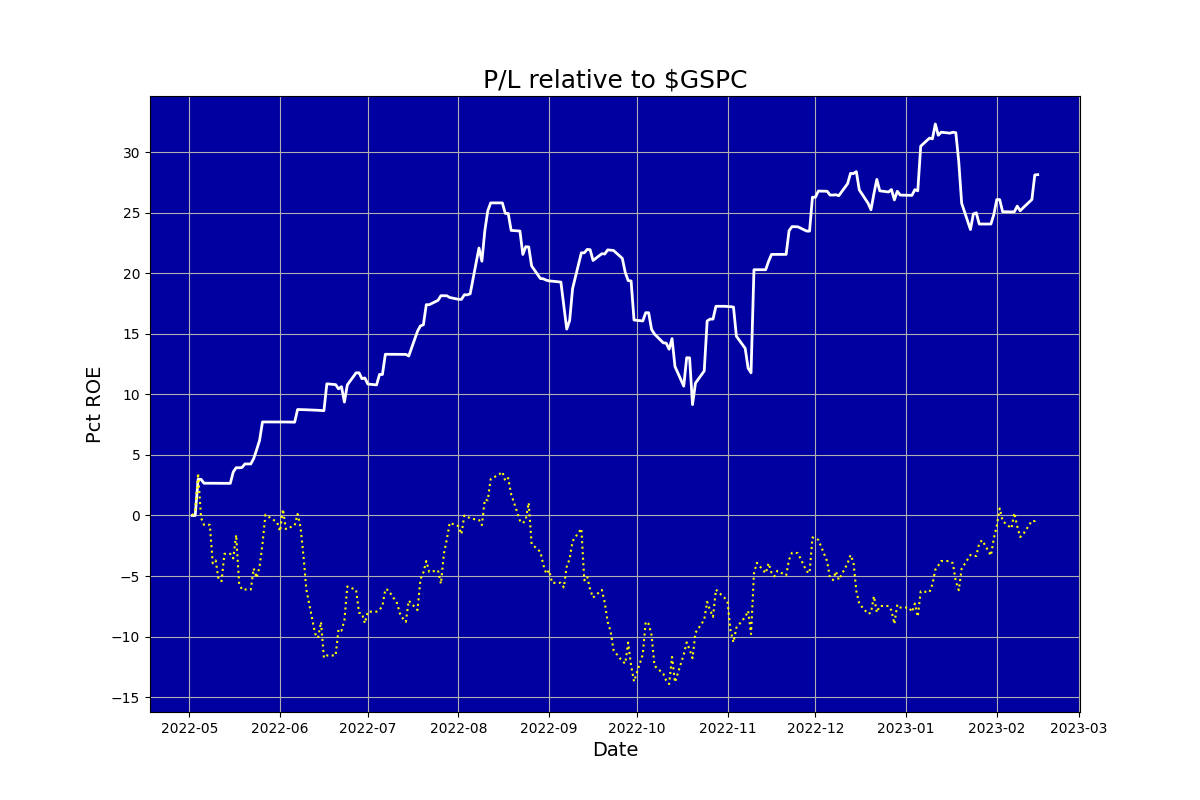
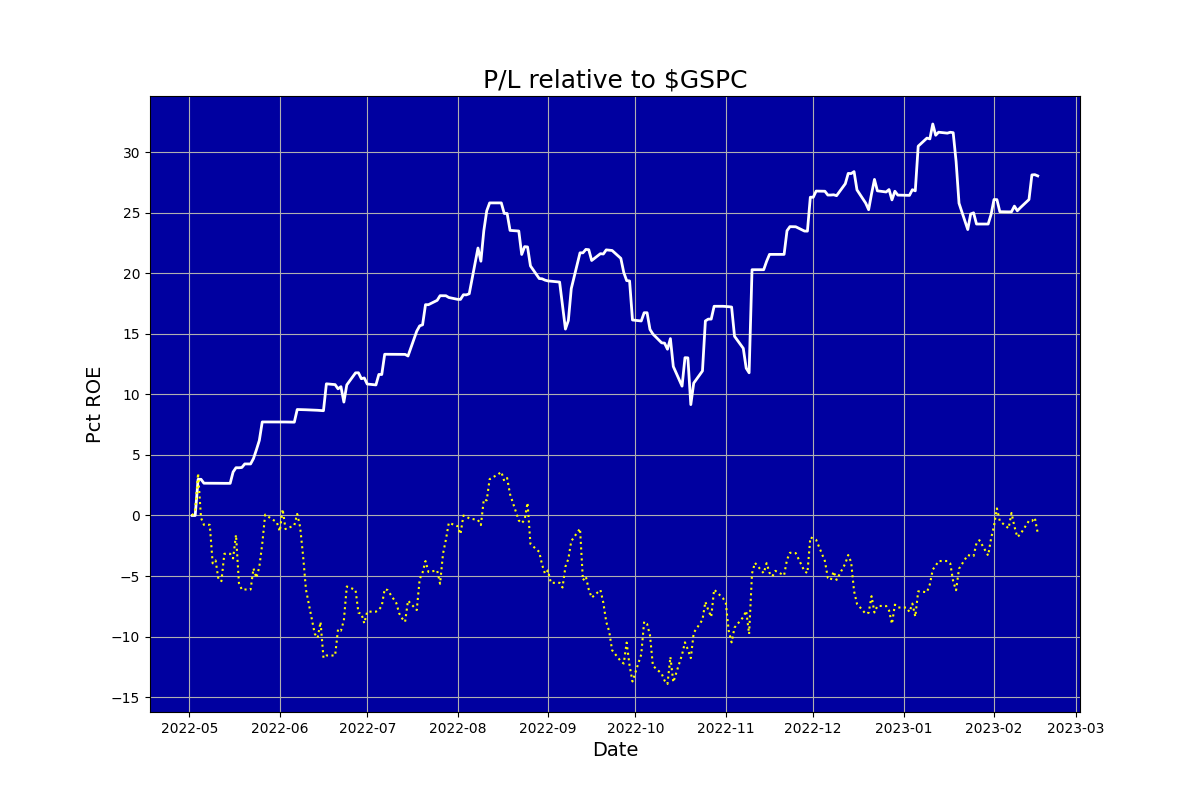
Updated

diff --git a/ig_report.html b/ig_report.html
@@ -1,1 +1,1 @@
-<html><body><center><h1>Auriel (never knowingly overbought)</h1></center><table cols=2><tr><td><img src=ig_pl.png></td><td><table cols=2><tr><td colspan=2><b><br>Snapshot</b></td></tr><tr><td>Last updated:&nbsp;&nbsp;&nbsp;</td><td>2023-02-15 15:57</td></tr><tr><td>Margin:&nbsp;&nbsp;&nbsp;</td><td>0.17</td></tr><tr><td>Cushion:&nbsp;&nbsp;&nbsp;</td><td>-4612.29</td></tr><tr><td>Last closed trade:&nbsp;&nbsp;&nbsp;</td><td>2023-02-15</td></tr><tr><td colspan=2><b><br>Positions</b></td></tr><tr><td>Mean days to new high:&nbsp;&nbsp;&nbsp;</td><td>11.30</td></tr><tr><td colspan=2><b><br>Trades</b></td></tr><tr><td>Traded days:&nbsp;&nbsp;&nbsp;</td><td>210</td></tr><tr><td>Profitable days pct:&nbsp;&nbsp;&nbsp;</td><td>36.67</td></tr><tr><td>Days beat S&P pct:&nbsp;&nbsp;&nbsp;</td><td>57.00</td></tr><tr><td>Profitable months pct:&nbsp;&nbsp;&nbsp;</td><td>80.00</td></tr><tr><td colspan=2><b><br>Performance</b></td></tr><tr><td>Pct median monthly ROE:&nbsp;&nbsp;&nbsp;</td><td>2.36</td></tr><tr><td>Pct annualised ROE:&nbsp;&nbsp;&nbsp;</td><td>33.51</td></tr><tr><td colspan=2><b><br>Risk</b></td></tr><tr><td>Volatility pct:&nbsp;&nbsp;&nbsp;</td><td>19.48</td></tr><tr><td>Benchmark volatility pct:&nbsp;&nbsp;&nbsp;</td><td>23.87</td></tr><tr><td>Sharpe ratio (RFR 5.0%):&nbsp;&nbsp;&nbsp;</td><td>1.56</td></tr><tr><td>Sortino ratio (RFR 5.0%):&nbsp;&nbsp;&nbsp;</td><td>2.40</td></tr><tr><td>Calmar ratio:&nbsp;&nbsp;&nbsp;</td><td>2.01</td></tr><tr><td>Worst drawdown pct:&nbsp;&nbsp;&nbsp;</td><td>-0.17</td></tr><tr><td>Recovery days from worst drawdown:&nbsp;&nbsp;&nbsp;</td><td>29.00</td></tr><tr><td>Beat benchmark +ve periods pct:&nbsp;&nbsp;&nbsp;</td><td>75.80</td></tr><tr><td>Beat benchmark -ve periods pct:&nbsp;&nbsp;&nbsp;</td><td>93.69</td></tr><tr><td>Correlation with benchmark:&nbsp;&nbsp;&nbsp;</td><td>0.38</td></tr></table></td></tr></table></body></html>
+<html><body><center><h1>Auriel (never knowingly overbought)</h1></center><table cols=2><tr><td><img src=ig_pl.png></td><td><table cols=2><tr><td colspan=2><b><br>Snapshot</b></td></tr><tr><td>Last updated:&nbsp;&nbsp;&nbsp;</td><td>2023-02-16 15:57</td></tr><tr><td>Margin:&nbsp;&nbsp;&nbsp;</td><td>0.39</td></tr><tr><td>Cushion:&nbsp;&nbsp;&nbsp;</td><td>-4644.57</td></tr><tr><td>Last closed trade:&nbsp;&nbsp;&nbsp;</td><td>2023-02-16</td></tr><tr><td colspan=2><b><br>Positions</b></td></tr><tr><td>Mean days to new high:&nbsp;&nbsp;&nbsp;</td><td>11.28</td></tr><tr><td colspan=2><b><br>Trades</b></td></tr><tr><td>Traded days:&nbsp;&nbsp;&nbsp;</td><td>211</td></tr><tr><td>Profitable days pct:&nbsp;&nbsp;&nbsp;</td><td>36.49</td></tr><tr><td>Days beat S&P pct:&nbsp;&nbsp;&nbsp;</td><td>57.71</td></tr><tr><td>Profitable months pct:&nbsp;&nbsp;&nbsp;</td><td>80.00</td></tr><tr><td colspan=2><b><br>Performance</b></td></tr><tr><td>Pct median monthly ROE:&nbsp;&nbsp;&nbsp;</td><td>2.31</td></tr><tr><td>Pct annualised ROE:&nbsp;&nbsp;&nbsp;</td><td>33.23</td></tr><tr><td colspan=2><b><br>Risk</b></td></tr><tr><td>Volatility pct:&nbsp;&nbsp;&nbsp;</td><td>19.43</td></tr><tr><td>Benchmark volatility pct:&nbsp;&nbsp;&nbsp;</td><td>23.83</td></tr><tr><td>Sharpe ratio (RFR 5.0%):&nbsp;&nbsp;&nbsp;</td><td>1.55</td></tr><tr><td>Sortino ratio (RFR 5.0%):&nbsp;&nbsp;&nbsp;</td><td>2.38</td></tr><tr><td>Calmar ratio:&nbsp;&nbsp;&nbsp;</td><td>1.99</td></tr><tr><td>Worst drawdown pct:&nbsp;&nbsp;&nbsp;</td><td>-0.17</td></tr><tr><td>Recovery days from worst drawdown:&nbsp;&nbsp;&nbsp;</td><td>29.00</td></tr><tr><td>Beat benchmark +ve periods pct:&nbsp;&nbsp;&nbsp;</td><td>75.77</td></tr><tr><td>Beat benchmark -ve periods pct:&nbsp;&nbsp;&nbsp;</td><td>93.71</td></tr><tr><td>Correlation with benchmark:&nbsp;&nbsp;&nbsp;</td><td>0.38</td></tr></table></td></tr></table></body></html>
